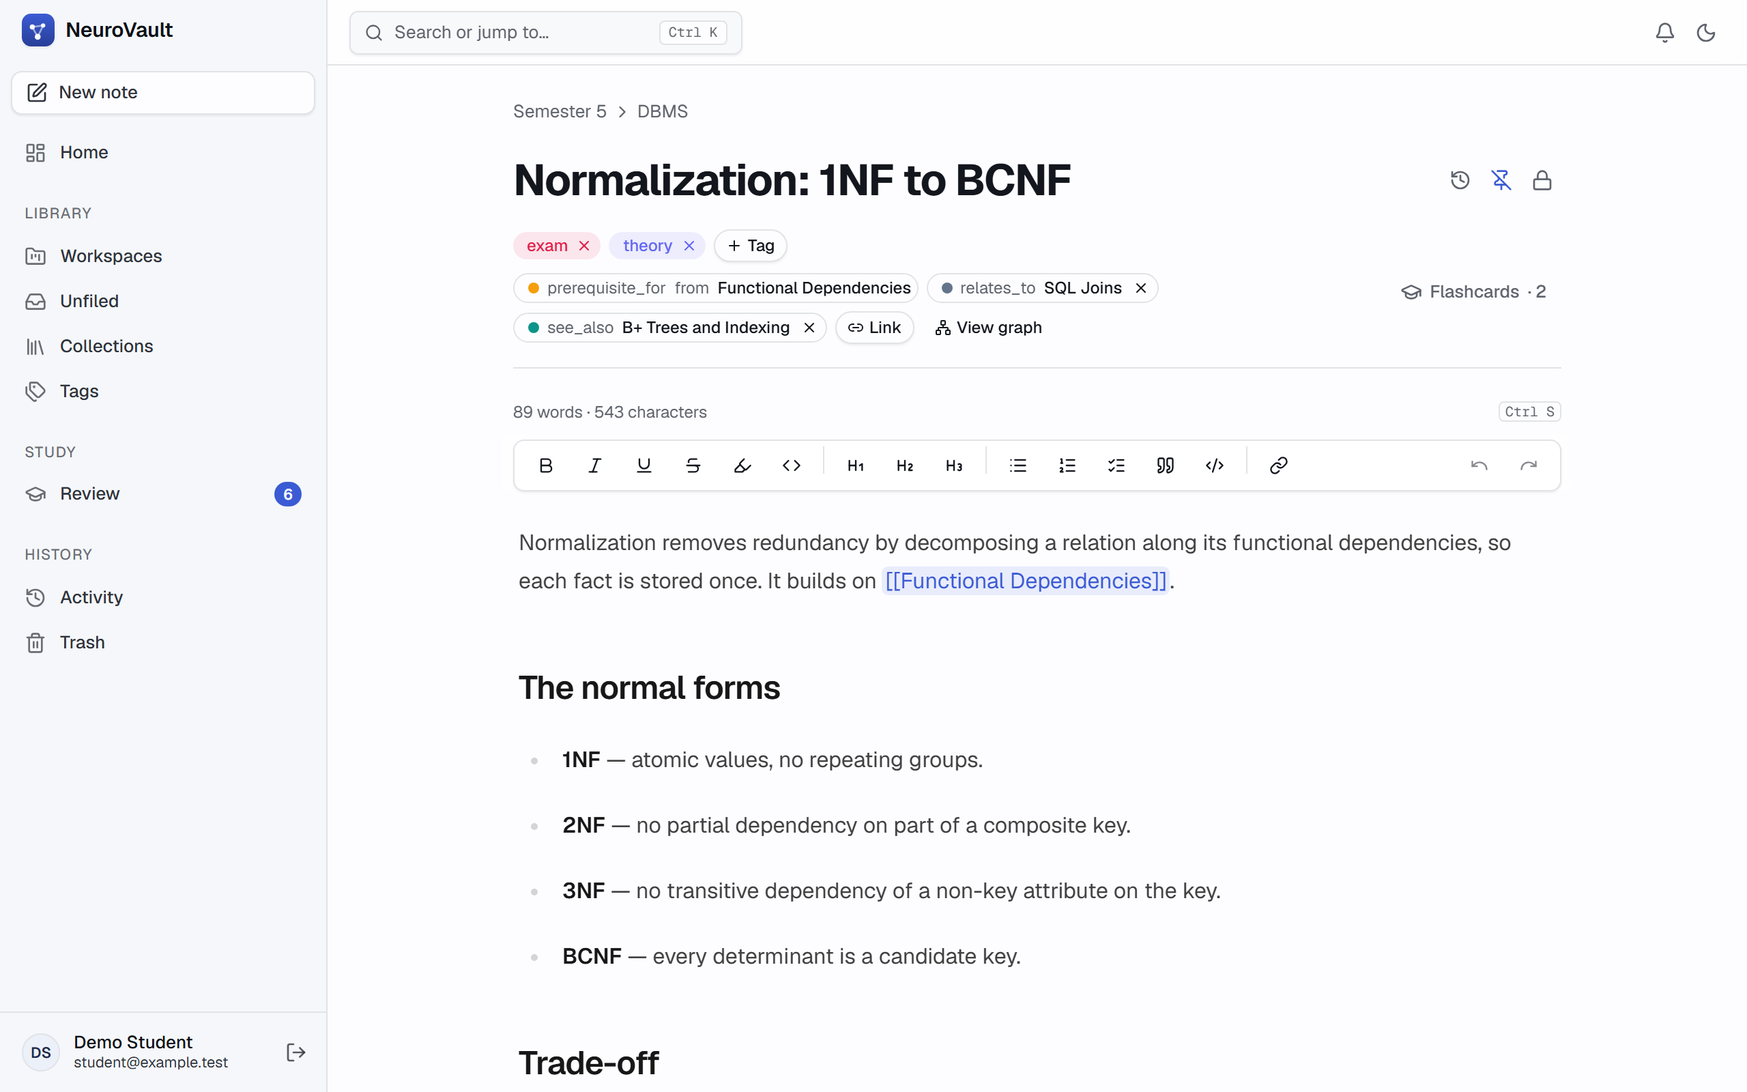
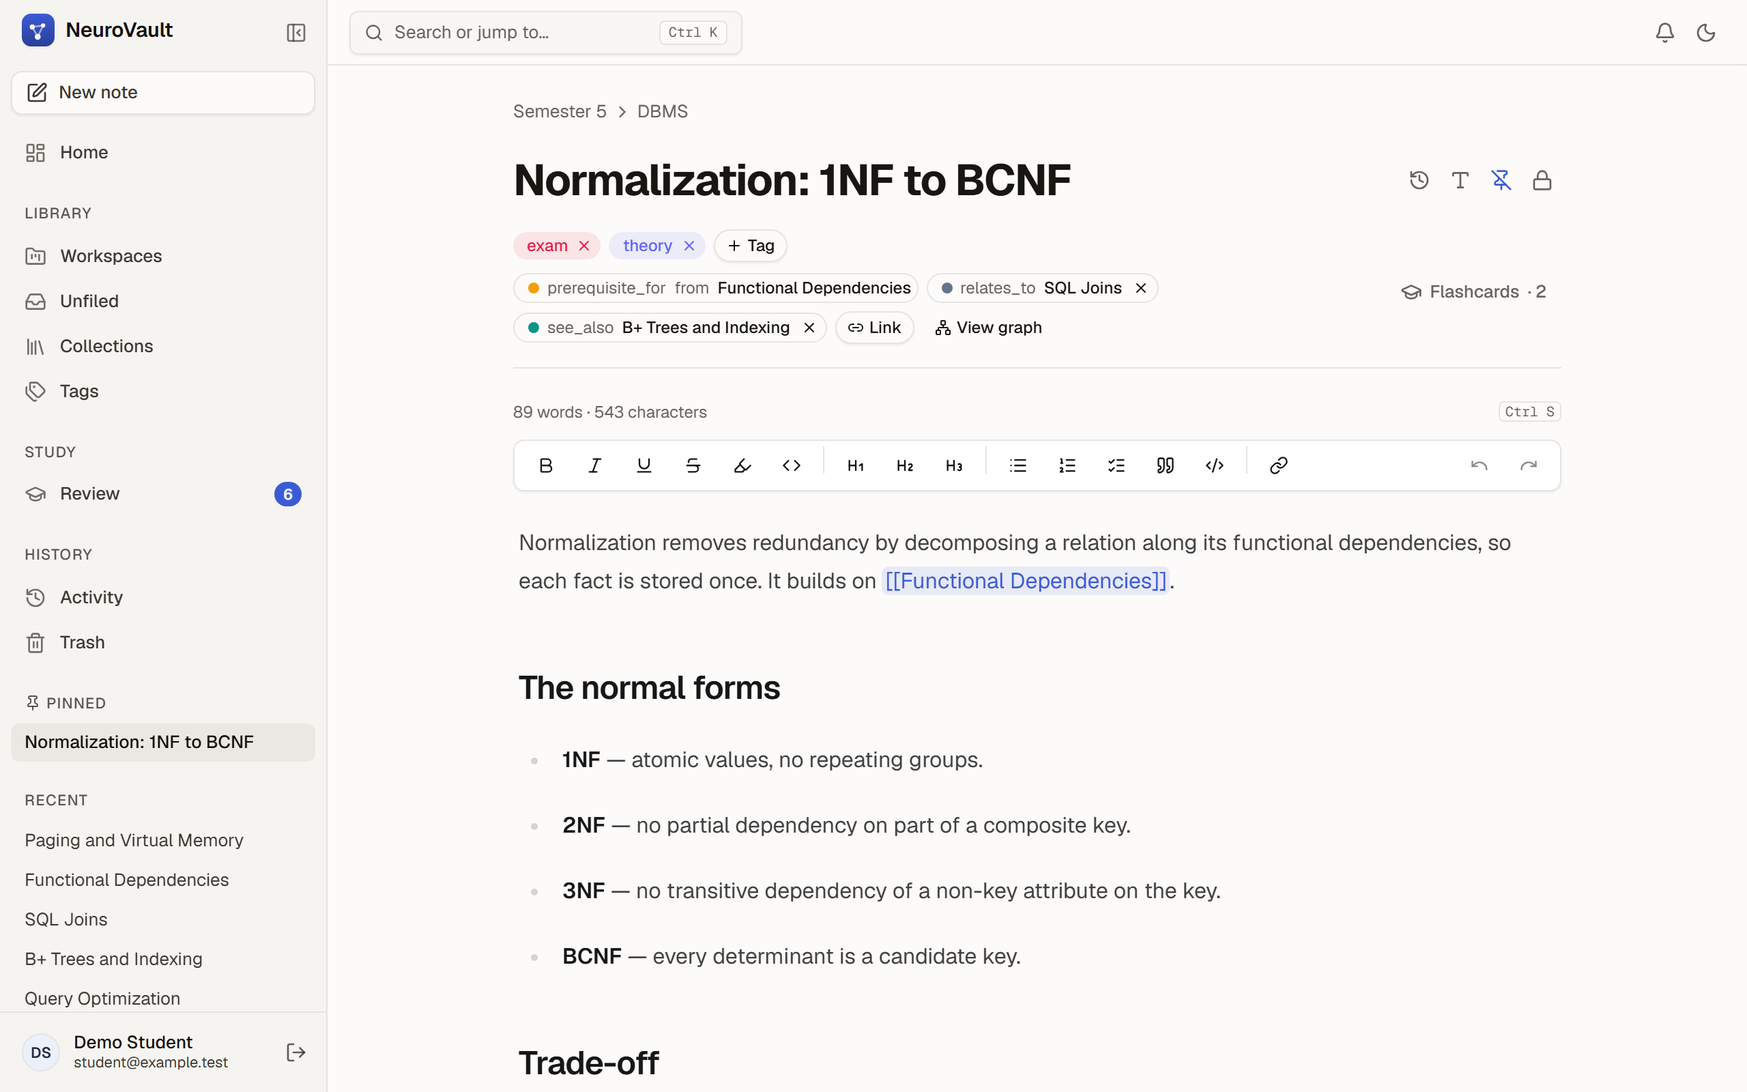
docs: design system, ADR-026, and the README and overview for the revamp
New docs/design-system.md (principles, tokens, elevation, motion, layout,
a checklist for adding a screen, and the sources actually consulted) and
ADR-026 (including what was not measured). README and PROJECT-OVERVIEW
updated for the new interface, with new screenshots and a light/dark pair.

diff --git a/docs/design-system.md b/docs/design-system.md
@@ -1,0 +1,131 @@
+# NeuroVault design system
+
+How the interface is built to look and feel consistent, and how to keep it that way when
+adding a screen. The decision record is [ADR-026](adr/0026-design-tokens-and-restrained-motion.md);
+the code is mostly [`frontend/src/app/globals.css`](../frontend/src/app/globals.css).
+
+## Principles
+
+1. **Navigation recedes; the note leads.** The sidebar is a notch dimmer than the page.
+   Nothing competes for attention it hasn't earned.
+2. **Structure is felt, not seen.** Separate surfaces by tone and soft elevation, not by
+   an outline on everything. Fewer dividers, softer edges.
+3. **One accent.** Indigo is for primary actions, focus and the current location. Colour
+   that carries meaning (success, destructive, link types) is separate from the accent.
+4. **Motion explains, never decorates.** Things that enter decelerate; nothing bounces.
+   If an animation doesn't tell the user what changed, remove it.
+5. **Every state is designed.** Loading shimmers, empty lists get an icon tile and a next
+   step, errors say what to do, and nothing is ever blank.
+6. **Accessible by construction.** Contrast is checked by axe in both themes on every
+   pull request; motion stops for people who ask their OS for less of it.
+
+## Colour
+
+Defined as CSS variables in `globals.css`, in OKLCH so equal lightness looks equally
+bright. Components use the tokens (`bg-card`, `text-muted-foreground`, `border-border`),
+never a literal colour.
+
+| Token | Light | Dark | Used for |
+|---|---|---|---|
+| `--background` | warm off-white | cool charcoal | The page |
+| `--card` | white | a step above the page | Cards, popovers |
+| `--sidebar` | a notch dimmer than the page | darker than the page | Navigation rail |
+| `--foreground` / `--muted-foreground` | near-black / mid grey | near-white / mid grey | Text |
+| `--primary` | indigo | lighter indigo | Main actions, focus, current location |
+| `--accent` | pale indigo tint | dark indigo tint | Selected and highlighted surfaces |
+| `--success` | green | lighter green | Saved, linked |
+| `--destructive` | red (darkened to pass 4.5:1 on its own tint) | lighter red | Delete, errors |
+| `--border` | very light warm grey | white at 9% | Hairlines |
+
+Light neutrals lean warm (a "paper" feel); dark neutrals lean cool, because warm dark
+greys read as muddy. Both themes are first-class: the theme switch grows out of the
+toggle button as a circular reveal (View Transitions API), and snaps if the browser or
+the user's motion setting says so.
+
+## Type
+
+| Role | Face | Notes |
+|---|---|---|
+| Interface | Geist Sans | Tight tracking on headings (`-0.02em` to `-0.04em`), `text-wrap: balance` |
+| Code and keys | Geist Mono | Keyboard hints, SQL snippets |
+| Writing (optional) | Newsreader (serif) | Chosen per person in a note's **Text style** menu; remembered in the browser |
+
+Body copy is 13–14 px in dense UI (sidebar, lists) and 16–17 px in the editor. Numbers
+that line up use `tabular-nums`.
+
+## Elevation
+
+| Utility | Use |
+|---|---|
+| `shadow-soft` | Resting cards and buttons |
+| `shadow-raised` | Menus, popovers, a card on hover |
+| `shadow-floating` | Toasts, the hero window on the landing page |
+
+## Shared utilities
+
+Add one class instead of writing per-page CSS.
+
+| Class | Effect |
+|---|---|
+| `card-interactive` | A card that is a link or button: 2 px lift, brighter border, firm press, focus ring |
+| `stagger` | Children rise in one after another (40 ms apart, first twelve) |
+| `empty-state` + `empty-icon` | An empty list: tinted icon tile, faint wash, centred copy |
+| `skeleton-shimmer` | Loading placeholder with a light sweep (the `Skeleton` component uses it) |
+| `animate-rise`, `animate-fade` | One-off entrances for server-rendered content |
+
+## Motion
+
+One easing curve and three durations, so motion feels like one hand made it.
+
+| Kind | Duration | Easing | Examples |
+|---|---|---|---|
+| Feedback | 100–150 ms | ease-standard | Hover colour, press, focus ring |
+| State change | 250–300 ms | ease-out expo | Page enters, cards lift, sidebar collapses |
+| Layout and showpiece | 350–550 ms | ease-out expo / spring | The sidebar's active pill sliding, graph links drawing, landing reveals |
+
+Building blocks live in [`components/motion.tsx`](../frontend/src/components/motion.tsx):
+`Reveal`, `Stagger` / `StaggerItem`, `CountUp`, and the shared `EASE_OUT` and `SPRING`.
+
+**Reduced motion.** A global `prefers-reduced-motion` rule shortens every CSS animation to
+nothing, `MotionConfig reducedMotion="user"` covers the `motion` components, and each
+component renders its final state outright instead of fading in. The browser tests run in
+this mode.
+
+## Layout and navigation
+
+- **App shell:** a 48 px blurred header (search, notifications, theme) over a 240 px
+  sidebar. The sidebar collapses to a 56 px icon rail with `Ctrl \`, remembers the choice,
+  and becomes a slide-in drawer on small screens.
+- **Sidebar contents:** New note, the four navigation groups, then **Pinned** and
+  **Recent** notes so the notes you reach for are one click away from any page. A sliding
+  pill marks the current location.
+- **Command palette (`Ctrl K`):** opens on your recent notes, then commands; typing
+  searches notes and filters commands.
+- **Pages:** a single column of 672–1152 px by content type, 32 px from the top, content
+  rising in on entry. Page titles are 22 px; the home greeting is larger.
+
+## Adding a screen
+
+1. Use tokens; if a colour isn't one, it doesn't belong in a component.
+2. Use `Card`, `Button`, `Dialog` and friends from `components/ui`.
+3. Lists of cards: add `stagger` to the grid and `card-interactive` to each card.
+4. Empty list: a block with `empty-state`, an icon with `empty-icon`, a title, a sentence,
+   and a button for the next step.
+5. Loading: `Skeleton`s shaped like the content. Never a blank page, never a spinner alone.
+6. Anything that animates on its own: check it under reduced motion.
+7. Run the axe scan (`pnpm test:e2e`) in both themes. It will find contrast mistakes
+   before a reviewer does.
+
+## What drove these choices
+
+- Linear's design write-ups
+  ([a design reset](https://linear.app/now/a-design-reset),
+  [how we redesigned the Linear UI](https://linear.app/now/how-we-redesigned-the-linear-ui),
+  [behind the latest design refresh](https://linear.app/now/behind-the-latest-design-refresh)):
+  dimmer navigation, "structure should be felt not seen", warmer less-saturated greys,
+  fewer separators, aligned headers.
+- The general pattern across note-taking apps such as Craft and Bear: restraint,
+  typography and speed read as premium; feature count does not.
+- Common motion guidance: roughly 100–150 ms for feedback, 200–300 ms for state
+  changes, ease-out for entering and ease-in for leaving, no bounce in work software,
+  and always respect reduced motion.

diff --git a/docs/PROJECT-OVERVIEW.md b/docs/PROJECT-OVERVIEW.md
@@ -41,7 +41,8 @@ one on a slide, paste it into [mermaid.live](https://mermaid.live) and export PN
 | **Stack** | PostgreSQL (Supabase) · FastAPI (Python 3.12, async SQLAlchemy) · Next.js 16 / React 19 · Supabase Auth |
 | **Size** | 15 tables · 12 migrations · 4 views · 3 graph functions · 1 stored procedure · 5 triggers · 60 API endpoints |
 | **Quality** | 176 backend tests against a real PostgreSQL database · 33 browser tests with WCAG 2.1 AA accessibility scans · CI on every pull request |
-| **Decisions** | 25 Architecture Decision Records (ADRs) in [`docs/adr/`](adr/) |
+| **Decisions** | 26 Architecture Decision Records (ADRs) in [`docs/adr/`](adr/) |
+| **Interface** | A token-based design system with light and dark themes, a shared motion system that respects reduced motion, and accessibility checks on every pull request ([design-system.md](design-system.md)) |
 
 ![Home screen](screenshots/dashboard.png)
 
@@ -121,6 +122,7 @@ mindmap
 | **Flashcards** | Add cards to any note; review due cards with four buttons | SM-2: `ease_factor NUMERIC(4,2) CHECK (1.30–2.50)`; `(owner_id, due_at)` index for the due queue |
 | **Dashboard** | Totals, hub notes, unlinked notes, recent edits | `v_user_dashboard`, `v_note_graph_stats`, `v_orphan_notes` |
 | **Activity and notifications** | Timeline of changes; a bell when someone links to your public note | `AFTER` triggers on notes and links write `activity_logs` and `notifications`; a window-function query collapses autosave bursts |
+| **Interface** | Collapsible sidebar (`Ctrl \`) with Pinned and Recent notes; a home page that opens on "Continue writing"; palette that opens on recent notes; sans or serif writing font; animated light/dark theme switch; entrance, hover and loading motion that stops for reduced-motion users | Nothing: this is the front end's job. See [design-system.md](design-system.md) |
 | **Account** | Email/password or Google/GitHub; password reset; export everything as JSON; delete the account | Export is one SQL statement of `jsonb_agg`; delete removes app data (cascading) and the login in one transaction |
 
 ---
@@ -216,7 +218,8 @@ The JWT is the only handoff: FastAPI never sees a password, and Supabase never s
 | `src/app/(marketing)` | Public landing page |
 | `src/app/(auth)` | Sign in, sign up, forgot and reset password, OAuth callback |
 | `src/app/(app)` | Signed-in pages: dashboard, workspaces, notebooks, notes, graph, tags, collections, review, activity, trash, profile |
-| `src/components` | Editor (Tiptap + wiki-links), graph canvas, command palette, layout, account cards, shadcn/ui primitives |
+| `src/components` | Editor (Tiptap + wiki-links), graph canvas, command palette, layout (collapsible sidebar), account cards, motion helpers, landing-page previews, shadcn/ui primitives |
+| `src/app/(app)/template.tsx` | Eases each page in on navigation, while the sidebar and header stay still |
 | `src/hooks` | One TanStack Query module per resource (`use-notes`, `use-links`, …) |
 | `src/app/globals.css` | Design tokens: colour, radius, elevation, light and dark themes |
 | `e2e/` | Playwright browser tests with an in-memory fake backend |
@@ -233,7 +236,9 @@ The JWT is the only handoff: FastAPI never sees a password, and Supabase never s
 | Data access | **SQLAlchemy 2 (async) + asyncpg** | ORM for simple CRUD, raw SQL where PostgreSQL features matter |
 | Auth | **Supabase Auth** | Email + OAuth + reset emails handled; JWTs verified in the backend via JWKS (ES256) |
 | Frontend | **Next.js 16** (App Router), React 19, TypeScript | Routing, production builds, security headers |
-| UI | Tailwind CSS v4, shadcn/ui, lucide icons | Accessible primitives and a token-based design system |
+| UI | Tailwind CSS v4, shadcn/ui, lucide icons | Accessible primitives and a token-based design system ([design-system.md](design-system.md)) |
+| Motion | **motion** (the Framer Motion successor) plus CSS keyframes | Layout animations (the sliding sidebar pill), staggered entrances, drawing graph links; all stop under reduced motion |
+| Type | Geist Sans and Mono; Newsreader as an optional writing font | A modern interface face, with a serif for long-form reading |
 | Editor | **Tiptap 3** (ProseMirror) | Rich text, custom extensions (the wiki-link decorations and autocomplete) |
 | Server state | **TanStack Query** | Caching, background refetch, optimistic updates |
 | Tests | pytest, Playwright, axe-core | Backend against a real database; browser tests with accessibility scans |
@@ -1048,7 +1053,7 @@ Step-by-step guide: [`deployment.md`](deployment.md).
 
 ## 13. Key design decisions
 
-25 ADRs record the problem, the options, the choice, and why. The ones most worth
+26 ADRs record the problem, the options, the choice, and why. The ones most worth
 presenting:
 
 | ADR | Decision | Why it matters |
@@ -1065,6 +1070,7 @@ presenting:
 | [022](adr/0022-views-are-security-invoker.md) | Views are `security_invoker` | Views can't bypass RLS |
 | [024](adr/0024-in-process-rate-limiting.md) | In-process rate limiting | Simple, no extra infrastructure, one worker |
 | [025](adr/0025-csp-without-nonces.md) | CSP without nonces | Keeps static rendering; documented trade-off |
+| [026](adr/0026-design-tokens-and-restrained-motion.md) | Design tokens and restrained motion | Every screen looks like one product; the accessibility scan keeps it that way |
 
 ---
 
@@ -1119,7 +1125,7 @@ A 15–20 minute talk, 14 slides. Each row: what goes on the slide, and what to 
 | 10 | **The database computes** | Diagram 6.4 + trigger/function table | Versions and audit by triggers; BFS and shortest path as functions; views for the dashboard. |
 | 11 | **One feature end to end** | Sequence 7.4 (saving a note) or 7.10 (wiki-links) | Follow one keystroke to a version row and a reconciled link. |
 | 12 | **Security** | Diagram from section 10 | Six layers; RLS protects the path that skips the API. |
-| 13 | **Quality** | CI diagram from section 11, test counts | 176 database-backed tests, 33 browser tests, accessibility scans, CI on every PR, 25 ADRs. |
+| 13 | **Quality** | CI diagram from section 11, test counts | 176 database-backed tests, 33 browser tests, accessibility scans, CI on every PR, 26 ADRs. |
 | 14 | **Learnings and future** | Challenges table + future work | What broke and how we fixed it; attachments, workspace graph, AI links. Q&A. |
 
 **Live demo script (3 minutes):**

diff --git a/README.md b/README.md
@@ -30,7 +30,12 @@ version history and an audit log written by triggers, ranked full-text search on
 index, graph traversal as a database function, and row level security as the last line of
 defence.
 
-![Home: a summary strip, hub notes ranked by links, unlinked notes and recent edits, computed by database views](docs/screenshots/dashboard.png)
+<table>
+  <tr>
+    <td width="50%"><img src="docs/screenshots/dashboard.png" alt="Home in the light theme: a Continue writing card, a summary strip, hub notes ranked by links, unlinked notes and recent edits"><br><sub><b>Home, light</b>: continue writing, a summary strip, hub notes, recent edits, all from database views</sub></td>
+    <td width="50%"><img src="docs/screenshots/dashboard-dark.png" alt="The same home screen in the dark theme"><br><sub><b>Home, dark</b>: every screen is designed for both themes</sub></td>
+  </tr>
+</table>
 
 <table>
   <tr>
@@ -100,9 +105,16 @@ also has a dark theme.</sub>
 - **Activity timeline** of what changed, and **notifications** when someone links to your
   public note
 - Email/password or Google/GitHub sign-in, password reset by email, avatar upload
-- **Designed light and dark themes**, following the system setting or your choice; a
-  consistent design system (tokens for colour, spacing and elevation) across every screen,
-  checked for WCAG 2.1 AA contrast
+- **A considered interface**: a collapsible sidebar (`Ctrl \`) that keeps your **Pinned**
+  and **Recent** notes one click away, a home page that opens on "Continue writing", a
+  command palette that opens on your recent notes, and a sans or serif writing font
+- **Designed light and dark themes**, following the system setting or your choice, with
+  a circular-reveal switch; one design system (tokens for colour, type and elevation)
+  across every screen, checked for WCAG 2.1 AA contrast on every pull request
+- **Motion that explains**: pages ease in, lists stagger, the sidebar's active marker
+  slides, graph links draw outward ring by ring, loading uses shimmering placeholders.
+  It all stops for anyone whose system asks for reduced motion
+  ([design system](docs/design-system.md))
 - **Your data is yours**: export everything as one JSON file, or delete the account and
   all of it permanently
 - Works on phones (the sidebar becomes a slide-in menu); Move to Trash comes with Undo
@@ -299,7 +311,7 @@ flowchart LR
 
 | Layer | Stack |
 |---|---|
-| Frontend | Next.js 16 (App Router), React 19, TypeScript, Tailwind CSS v4, shadcn/ui, Tiptap 3, TanStack Query |
+| Frontend | Next.js 16 (App Router), React 19, TypeScript, Tailwind CSS v4, shadcn/ui, Tiptap 3, TanStack Query, motion |
 | Backend | FastAPI, Pydantic v2, SQLAlchemy 2 (async) + asyncpg, Alembic, uv |
 | Database | PostgreSQL 15+ (Supabase in production; Postgres 16 in CI and Docker) |
 | Auth | Supabase Auth; JWTs verified in the backend via JWKS (ES256, [ADR-018](docs/adr/0018-jwt-verification-via-jwks.md)) |
@@ -471,8 +483,8 @@ endpoint list and error conventions: **[`docs/api-reference.md`](docs/api-refere
 │   └── Dockerfile              dev image, and the production stage Render builds
 ├── frontend/
 │   ├── src/app/                App Router pages
-│   ├── src/app/globals.css     design tokens: colour, radius, elevation, both themes
-│   ├── src/components/         editor (incl. wiki-links), graph, search, account, logo, ui (shadcn)
+│   ├── src/app/globals.css     design tokens, motion curves and shared utilities, both themes
+│   ├── src/components/         editor (incl. wiki-links), graph, search, layout, account, motion, ui (shadcn)
 │   ├── src/hooks/              one TanStack Query hook module per resource
 │   └── e2e/                    Playwright + axe tests, with an in-memory fake backend
 ├── docs/                       design docs, ADRs, API reference, deployment guide
@@ -548,6 +560,7 @@ flowchart TD
 | | |
 |---|---|
 | [`docs/PROJECT-OVERVIEW.md`](docs/PROJECT-OVERVIEW.md) | **Start here**: the whole project in one document, with architecture, ER, UML and user-flow diagrams, a slide-by-slide presentation outline and viva questions |
+| [`docs/design-system.md`](docs/design-system.md) | The interface's principles, colour and type tokens, elevation, the motion system, layout, and a checklist for adding a screen |
 | [`docs/api-reference.md`](docs/api-reference.md) | Every endpoint, plus error conventions |
 | [`docs/deployment.md`](docs/deployment.md) | Putting it online: API on Render (`render.yaml`), web app on Vercel, Supabase URL settings |
 | [`docs/adr/`](docs/adr/) | Architecture Decision Records: the problem, the alternatives, what was chosen, and why |

diff --git a/docs/adr/0026-design-tokens-and-restrained-motion.md b/docs/adr/0026-design-tokens-and-restrained-motion.md
@@ -1,0 +1,51 @@
+# ADR-026: Design tokens and restrained motion
+
+**Context.** The first interface worked but looked like a course project: a dark navy
+sidebar competing with the content, every card boxed in the same outline, state changes
+that snapped, and no shared rule for spacing or colour. Making it feel like a product
+meant changing many screens at once. The risk of doing that screen by screen is drift:
+twelve pages that each look slightly different.
+
+**Options.**
+1. Restyle each page by hand. Fast for one page; it drifts by the third.
+2. Adopt a component library with its own look. Consistent, but it replaces what we
+   already have (shadcn/ui on Tailwind v4) and the result looks like the library.
+3. Keep shadcn/ui, and move every visual decision into **tokens and a few shared
+   utilities** in `globals.css`, so a page gets the new look by using the system.
+
+**Chosen: 3.** The decisions come mainly from Linear's published redesign write-ups
+(the most concrete source found), plus the common observation that Craft and Bear feel
+premium through restraint, typography and speed rather than feature count:
+- **Navigation recedes, content leads.** The sidebar is a notch dimmer than the page.
+  Linear: "don't compete for attention you haven't earned".
+- **Structure felt, not seen.** Surfaces separate by tone and soft elevation
+  (`shadow-soft`, `shadow-raised`, `shadow-floating`) instead of outlines on everything.
+- **Warm neutrals in light, cool in dark.** Light mode is a warm "paper"; dark mode
+  moved to cool neutrals after the warm version read as muddy. One indigo accent carries
+  primary actions, focus and the current location.
+- **Motion is a system, not decoration.** One easing curve (ease-out expo), durations of
+  about 150 ms for feedback, 250 ms for state changes, 350 ms for layout moves. Entering
+  things decelerate; nothing bounces.
+- **Utilities, not per-page CSS:** `card-interactive`, `stagger`, `empty-state`,
+  `skeleton-shimmer`. A list opts in with one class.
+- **Reduced motion is honoured twice:** a global `prefers-reduced-motion` rule for CSS,
+  and `MotionConfig reducedMotion="user"` plus explicit `initial={false}` for the
+  `motion` components, so content is never left mid-fade.
+
+**Consequences.**
+- Every screen changed together, and a future page gets the look by using the utilities.
+- Motion adds one dependency, `motion`. Its bundle cost wasn't measured; if the
+  landing page weight matters, check it before adding more animation.
+- The browser tests run with `reducedMotion: "reduce"`. That keeps them deterministic and
+  stops axe from measuring contrast on a half-faded element; it also means they exercise
+  the reduced-motion path, not the animated one.
+- Server-rendered content (the sign-in layout) animates with a CSS keyframe, not a
+  `motion` component. A JavaScript `initial={{ opacity: 0 }}` rendered on the server can
+  hydrate differently for a reduced-motion visitor and be left invisible.
+- The new palette broke two contrast checks that axe caught (small uppercase sidebar
+  labels, and red text on a pale red tint). Both were fixed in the tokens, not in the
+  components that exposed them.
+
+**Learning note.** Polish is mostly consistency. A handful of tokens and four utilities
+did more for the interface than any single screen redesign, and the accessibility scan
+turned a subjective "does this look right" into a check that fails the build.

diff --git a/docs/adr/README.md b/docs/adr/README.md
@@ -33,3 +33,4 @@ New ADRs get added here as they come up during the build — not written all upf
 | [0023](0023-rls-policies-as-built.md) | Row level security policies: four departures from the design |
 | [0024](0024-in-process-rate-limiting.md) | Rate limiting is per client IP, in process memory |
 | [0025](0025-csp-without-nonces.md) | Content Security Policy without nonces |
+| [0026](0026-design-tokens-and-restrained-motion.md) | Design tokens, a shared motion system, and reduced motion honoured twice |
